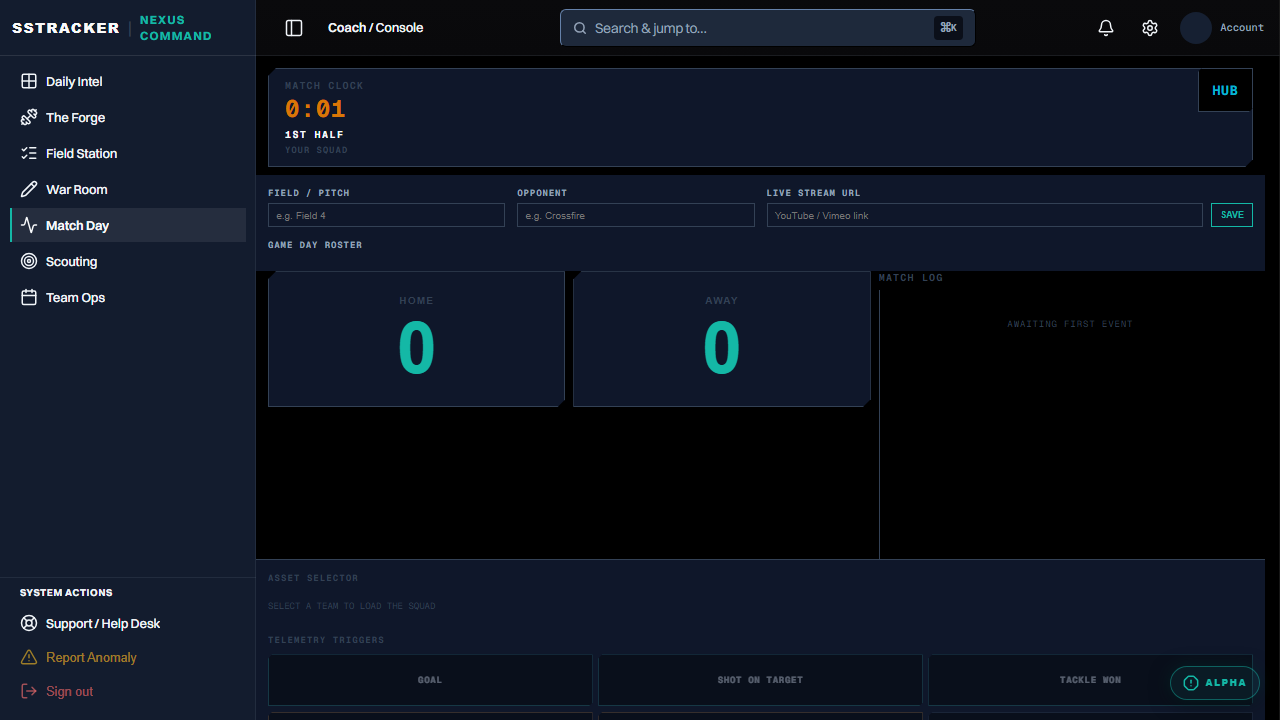
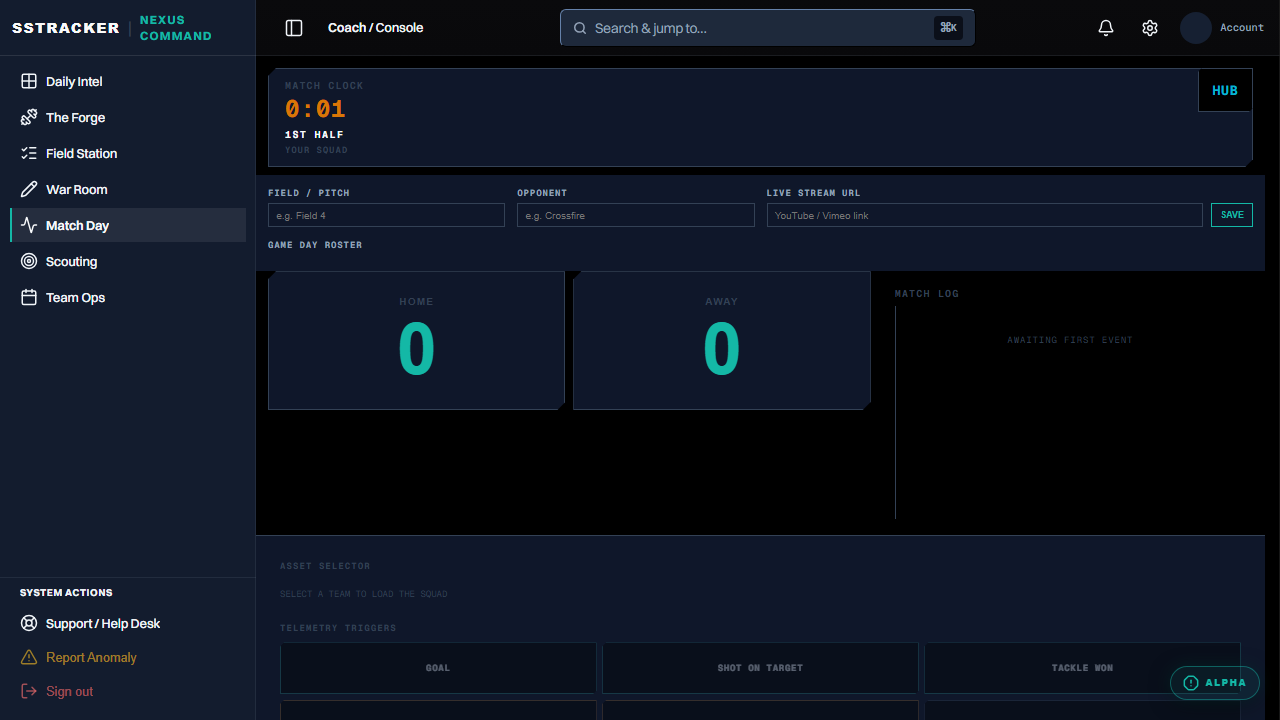
fix(coach): repair logistics hydration bug and increase match day padding

diff --git a/src/lib/styles/coach-match-day-scoreboard.css b/src/lib/styles/coach-match-day-scoreboard.css
@@ -125,7 +125,7 @@
 	justify-content: center;
 	gap: 0.35rem;
 	min-height: 8.5rem;
-	padding: 0.75rem 0.5rem;
+	padding: 1.5rem 1rem;
 	background: var(--pd-navy-panel, #0f172a);
 	border: 1px solid var(--pd-grey-trim, #334155);
 	border-radius: 0;
@@ -174,7 +174,7 @@
 	display: flex;
 	flex-direction: column;
 	min-height: 0;
-	padding: 0;
+	padding: 1rem;
 	background: var(--pd-void-base, #000000);
 	border: 0;
 }
@@ -249,7 +249,7 @@
 	flex-direction: column;
 	min-height: 0;
 	margin-top: auto;
-	padding: 0.75rem;
+	padding: 1.5rem;
 	border-top: 1px solid var(--pd-grey-trim, #334155);
 	background: var(--pd-navy-panel, #0f172a);
 }

diff --git a/src/lib/coach/logistics/CoachLogisticsView.svelte b/src/lib/coach/logistics/CoachLogisticsView.svelte
@@ -7,11 +7,12 @@
 	import { page } from '$app/state';
 	import { teamsStore } from '$lib/stores/teams.svelte.js';
 	import { authStore } from '$lib/stores/auth.svelte.js';
-	import { db } from '$lib/firebase.js';
+	import { getActiveDb } from '$lib/firebase.js';
 	import { CoachTeamScope } from '$lib/coach/context/coachTeamScope.svelte.js';
 
 	const teamScope = new CoachTeamScope({ preferProfileTeam: true });
 	$effect(() => {
+		const db = getActiveDb();
 		if (!db || !authStore.isAuthenticated) return;
 		teamScope.syncSelectedTeam();
 	});
